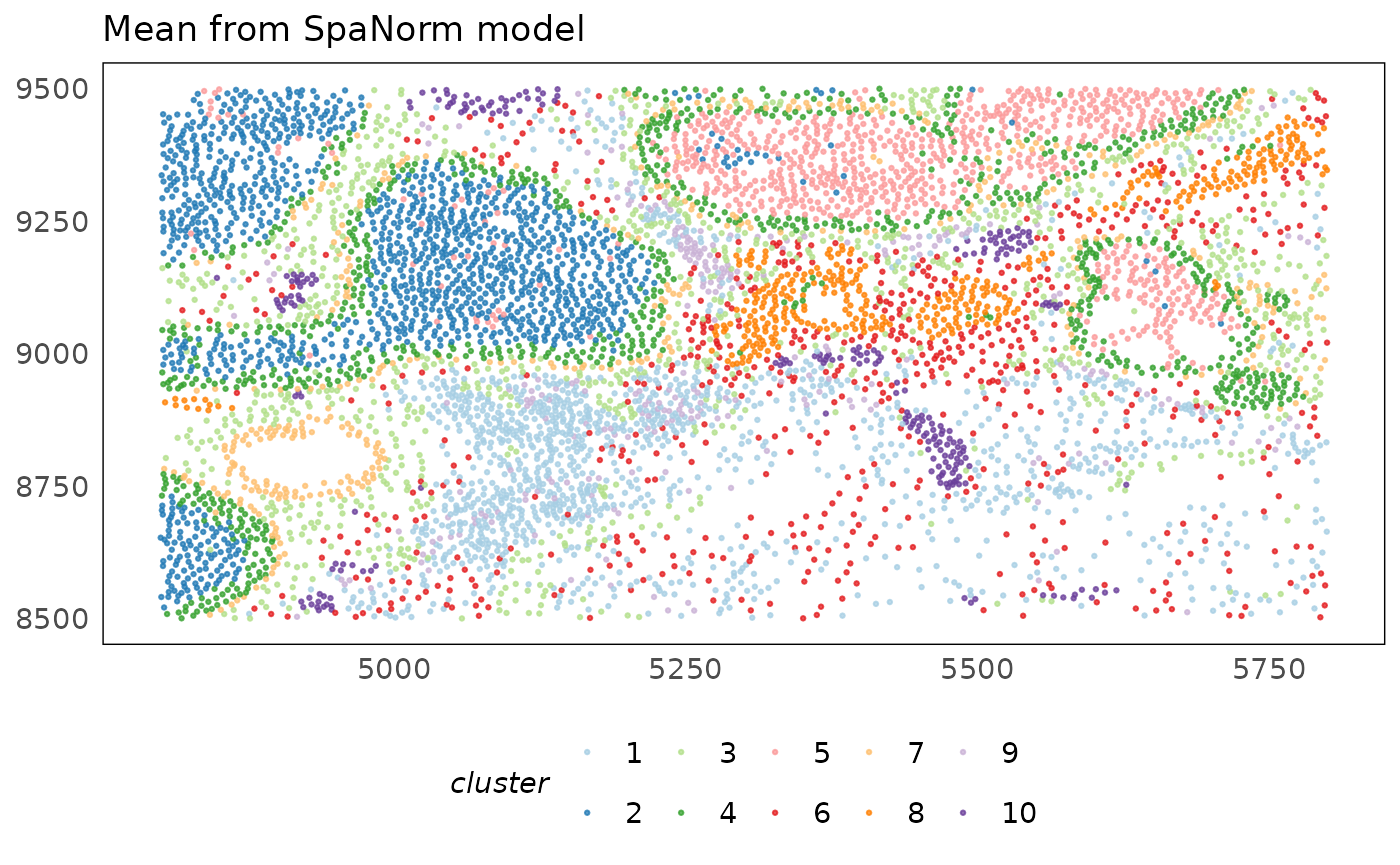
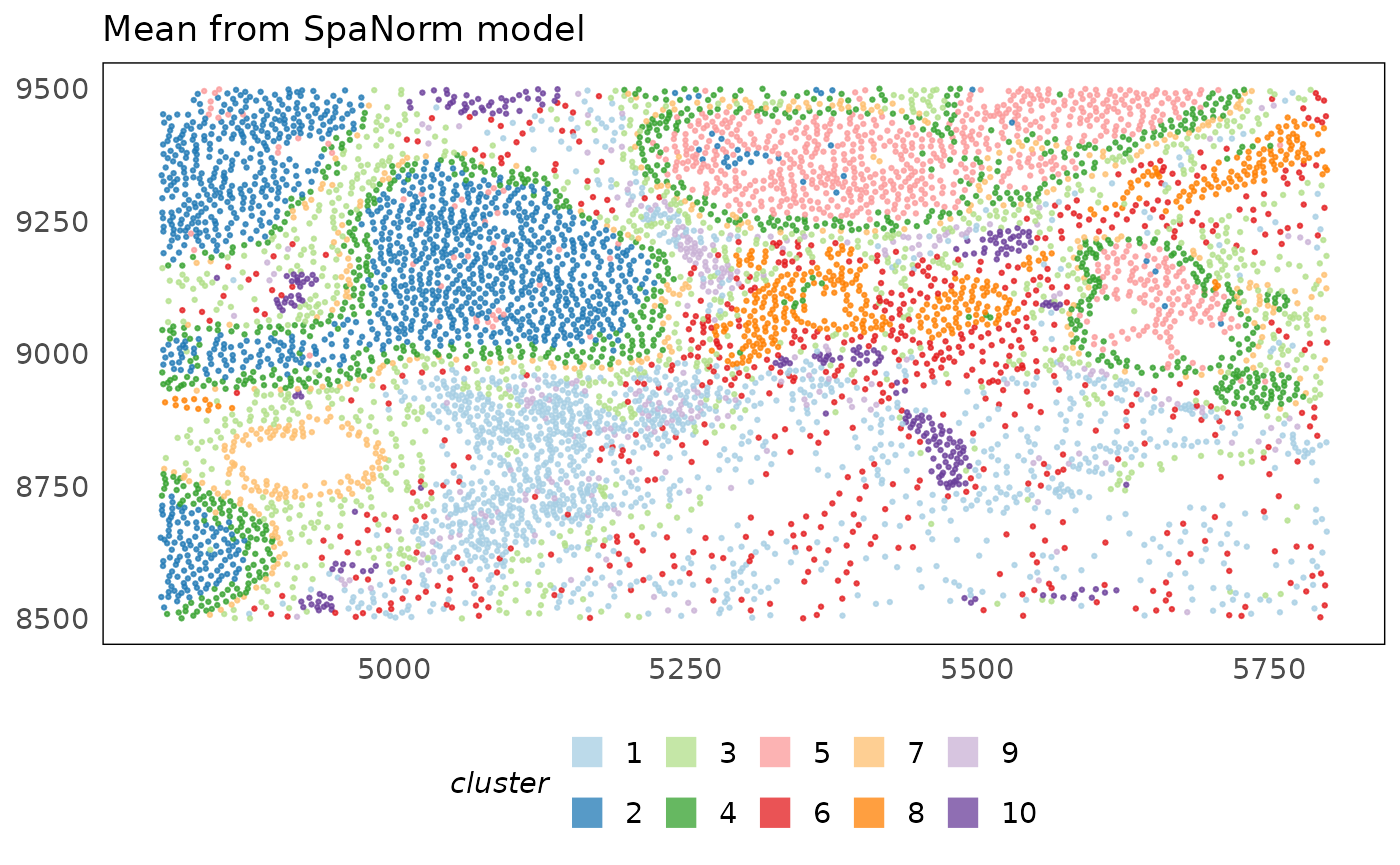
Deploying to gh-pages from @ bhuvad/XeniumSpatialAnalysisWorkshop@3654a9eabc05ea53ada9d24bad6e4f20900e12c9 🚀

diff --git a/articles/workflow_spatial_xenium.html b/articles/workflow_spatial_xenium.html
@@ -212,7 +212,9 @@ in the interval (8500, 9500)</p>
 <code class="sourceCode R"><span><span class="co"># set default point size to 0.5 for this report</span></span>
 <span><span class="fu">update_geom_defaults</span><span class="op">(</span>geom <span class="op">=</span> <span class="st">"point"</span>, new <span class="op">=</span> <span class="fu"><a href="https://rdrr.io/r/base/list.html" class="external-link">list</a></span><span class="op">(</span>size <span class="op">=</span> <span class="fl">0.5</span><span class="op">)</span><span class="op">)</span></span>
 <span><span class="fu">plotSpatial</span><span class="op">(</span><span class="va">idc</span>, colour <span class="op">=</span> <span class="va">region</span><span class="op">)</span> <span class="op">+</span></span>
-<span>  <span class="fu">scale_colour_brewer</span><span class="op">(</span>palette <span class="op">=</span> <span class="st">"Dark2"</span><span class="op">)</span></span></code></pre></div>
+<span>  <span class="fu">scale_colour_brewer</span><span class="op">(</span>palette <span class="op">=</span> <span class="st">"Dark2"</span><span class="op">)</span> <span class="op">+</span></span>
+<span>  <span class="co"># improve legend visibility</span></span>
+<span>  <span class="fu">guides</span><span class="op">(</span>colour <span class="op">=</span> <span class="fu">guide_legend</span><span class="op">(</span>override.aes <span class="op">=</span> <span class="fu"><a href="https://rdrr.io/r/base/list.html" class="external-link">list</a></span><span class="op">(</span>shape <span class="op">=</span> <span class="fl">15</span>, size <span class="op">=</span> <span class="fl">5</span><span class="op">)</span><span class="op">)</span><span class="op">)</span></span></code></pre></div>
 <p><img src="workflow_spatial_xenium_files/figure-html/unnamed-chunk-2-1.png" width="700"></p>
 <p>For users interested in analysing the whole dataset, it can be
 obtained using the code below.</p>
@@ -402,11 +404,13 @@ under- filtering.</p>
 <span><span class="va">p1</span> <span class="op">=</span> <span class="fu">plotDR</span><span class="op">(</span><span class="va">idc</span>, dimred <span class="op">=</span> <span class="st">"TSNE"</span>, colour <span class="op">=</span> <span class="va">keep</span>, alpha <span class="op">=</span> <span class="fl">0.75</span>, size <span class="op">=</span> <span class="fl">0.5</span><span class="op">)</span> <span class="op">+</span></span>
 <span>  <span class="fu">scale_color_brewer</span><span class="op">(</span>palette <span class="op">=</span> <span class="st">"Set1"</span><span class="op">)</span> <span class="op">+</span></span>
 <span>  <span class="fu">labs</span><span class="op">(</span>x <span class="op">=</span> <span class="st">"TSNE1"</span>, y <span class="op">=</span> <span class="st">"TSNE2"</span><span class="op">)</span> <span class="op">+</span></span>
-<span>  <span class="fu">theme</span><span class="op">(</span>legend.position <span class="op">=</span> <span class="st">"bottom"</span><span class="op">)</span></span>
+<span>  <span class="fu">theme</span><span class="op">(</span>legend.position <span class="op">=</span> <span class="st">"bottom"</span><span class="op">)</span> <span class="op">+</span></span>
+<span>  <span class="fu">guides</span><span class="op">(</span>colour <span class="op">=</span> <span class="fu">guide_legend</span><span class="op">(</span>override.aes <span class="op">=</span> <span class="fu"><a href="https://rdrr.io/r/base/list.html" class="external-link">list</a></span><span class="op">(</span>shape <span class="op">=</span> <span class="fl">15</span>, size <span class="op">=</span> <span class="fl">5</span><span class="op">)</span><span class="op">)</span><span class="op">)</span></span>
 <span><span class="co"># spatial plot</span></span>
 <span><span class="va">p2</span> <span class="op">=</span> <span class="fu">plotSpatial</span><span class="op">(</span><span class="va">idc</span>, colour <span class="op">=</span> <span class="va">keep</span>, alpha <span class="op">=</span> <span class="fl">0.75</span><span class="op">)</span> <span class="op">+</span></span>
 <span>  <span class="fu">scale_color_brewer</span><span class="op">(</span>palette <span class="op">=</span> <span class="st">"Set1"</span><span class="op">)</span> <span class="op">+</span></span>
-<span>  <span class="fu">theme</span><span class="op">(</span>legend.position <span class="op">=</span> <span class="st">"bottom"</span><span class="op">)</span></span>
+<span>  <span class="fu">theme</span><span class="op">(</span>legend.position <span class="op">=</span> <span class="st">"bottom"</span><span class="op">)</span> <span class="op">+</span></span>
+<span>  <span class="fu">guides</span><span class="op">(</span>colour <span class="op">=</span> <span class="fu">guide_legend</span><span class="op">(</span>override.aes <span class="op">=</span> <span class="fu"><a href="https://rdrr.io/r/base/list.html" class="external-link">list</a></span><span class="op">(</span>shape <span class="op">=</span> <span class="fl">15</span>, size <span class="op">=</span> <span class="fl">5</span><span class="op">)</span><span class="op">)</span><span class="op">)</span></span>
 <span><span class="va">p1</span> <span class="op">+</span> <span class="va">p2</span> <span class="op">+</span> <span class="fu">plot_annotation</span><span class="op">(</span>title <span class="op">=</span> <span class="st">"Cells retained after QC filtering"</span><span class="op">)</span></span></code></pre></div>
 <p><img src="workflow_spatial_xenium_files/figure-html/unnamed-chunk-12-1.png" width="700"></p>
 <p>In practice, after poor quality cells are filtered out, we tend to
@@ -564,7 +568,8 @@ for this workshop.</p>
 <code class="sourceCode R"><span><span class="fu">plotSpatial</span><span class="op">(</span><span class="va">idc</span>, colour <span class="op">=</span> <span class="va">cell_type</span>, alpha <span class="op">=</span> <span class="fl">0.75</span><span class="op">)</span> <span class="op">+</span></span>
 <span>  <span class="fu">scale_colour_brewer</span><span class="op">(</span>palette <span class="op">=</span> <span class="st">"Paired"</span>, na.value <span class="op">=</span> <span class="st">"#333333"</span><span class="op">)</span> <span class="op">+</span></span>
 <span>  <span class="fu">ggtitle</span><span class="op">(</span><span class="st">"Mean from SpaNorm model"</span><span class="op">)</span> <span class="op">+</span></span>
-<span>  <span class="fu">theme</span><span class="op">(</span>legend.position <span class="op">=</span> <span class="st">"bottom"</span><span class="op">)</span></span></code></pre></div>
+<span>  <span class="fu">theme</span><span class="op">(</span>legend.position <span class="op">=</span> <span class="st">"bottom"</span><span class="op">)</span> <span class="op">+</span></span>
+<span>  <span class="fu">guides</span><span class="op">(</span>colour <span class="op">=</span> <span class="fu">guide_legend</span><span class="op">(</span>override.aes <span class="op">=</span> <span class="fu"><a href="https://rdrr.io/r/base/list.html" class="external-link">list</a></span><span class="op">(</span>shape <span class="op">=</span> <span class="fl">15</span>, size <span class="op">=</span> <span class="fl">5</span><span class="op">)</span><span class="op">)</span><span class="op">)</span></span></code></pre></div>
 <p><img src="workflow_spatial_xenium_files/figure-html/unnamed-chunk-19-1.png" width="700"></p>
 </div>
 <div class="section level2">
@@ -633,17 +638,23 @@ variation is minimal within this range.</li>
 <span><span class="fu"><a href="https://rdrr.io/r/base/Random.html" class="external-link">set.seed</a></span><span class="op">(</span><span class="fl">1000</span><span class="op">)</span></span>
 <span><span class="va">idc</span> <span class="op">=</span> <span class="fu">Banksy</span><span class="fu">::</span><span class="fu"><a href="https://rdrr.io/pkg/Banksy/man/clusterBanksy.html" class="external-link">clusterBanksy</a></span><span class="op">(</span><span class="va">idc</span>, lambda <span class="op">=</span> <span class="va">lambda</span>, npcs <span class="op">=</span> <span class="va">npcs</span>, resolution <span class="op">=</span> <span class="va">res</span><span class="op">)</span></span>
 <span></span>
-<span><span class="fu">plotSpatial</span><span class="op">(</span><span class="va">idc</span>, colour <span class="op">=</span> <span class="va">clust_M0_lam0.2_k50_res0.8</span>, alpha <span class="op">=</span> <span class="fl">0.75</span><span class="op">)</span> <span class="op">+</span></span>
+<span><span class="co"># store to the column predicted_region</span></span>
+<span><span class="va">idc</span><span class="op">$</span><span class="va">predicted_region</span> <span class="op">=</span> <span class="va">idc</span><span class="op">$</span><span class="va">`clust_M0_lam0.2_k50_res0.8`</span></span>
+<span></span>
+<span><span class="fu">plotSpatial</span><span class="op">(</span><span class="va">idc</span>, colour <span class="op">=</span> <span class="va">predicted_region</span>, alpha <span class="op">=</span> <span class="fl">0.75</span><span class="op">)</span> <span class="op">+</span></span>
 <span>  <span class="fu">scale_colour_brewer</span><span class="op">(</span>palette <span class="op">=</span> <span class="st">"Paired"</span>, na.value <span class="op">=</span> <span class="st">"#333333"</span>, name <span class="op">=</span> <span class="st">"cluster"</span><span class="op">)</span> <span class="op">+</span></span>
 <span>  <span class="fu">ggtitle</span><span class="op">(</span><span class="st">"Mean from SpaNorm model"</span><span class="op">)</span> <span class="op">+</span></span>
-<span>  <span class="fu">theme</span><span class="op">(</span>legend.position <span class="op">=</span> <span class="st">"bottom"</span><span class="op">)</span></span></code></pre></div>
+<span>  <span class="fu">theme</span><span class="op">(</span>legend.position <span class="op">=</span> <span class="st">"bottom"</span><span class="op">)</span> <span class="op">+</span></span>
+<span>  <span class="fu">guides</span><span class="op">(</span>colour <span class="op">=</span> <span class="fu">guide_legend</span><span class="op">(</span>override.aes <span class="op">=</span> <span class="fu"><a href="https://rdrr.io/r/base/list.html" class="external-link">list</a></span><span class="op">(</span>shape <span class="op">=</span> <span class="fl">15</span>, size <span class="op">=</span> <span class="fl">5</span><span class="op">)</span><span class="op">)</span><span class="op">)</span></span></code></pre></div>
 <p><img src="workflow_spatial_xenium_files/figure-html/unnamed-chunk-20-1.png" width="700"></p>
 <p>Try varying the parameters to see how the clustering changes. Do note
 that the results are automatically stored in a new column in the
 colData. Unfortunately, the function does not allow specification of the
 new column name so the only approach is to look at the column names
 using <code>colnames(colData(idc))</code> and find the name of the new
-column (usually the last one) containing the clustering results.</p>
+column (usually the last one) containing the clustering results. We then
+store these to a column of our choosing to make it easier to reference
+it.</p>
 <p>Looking back at the original annotations, we see that clusters 3 and
 5 represent the DCIS and Invasive tumours respectively. Similarly,
 cluster 10 represents the blood vessel annotated by the pathologist.
@@ -654,26 +665,169 @@ of which may be visible in the histology image but are intestive to
 label manually. We also find cluster 4 which represents a boundary of
 cells surrounding invasive and DCIS lesions.</p>
 <div class="sourceCode" id="cb34"><pre class="downlit sourceCode r">
-<code class="sourceCode R"><span><span class="va">p1</span> <span class="op">=</span> <span class="fu">plotSpatial</span><span class="op">(</span><span class="va">idc</span>, colour <span class="op">=</span> <span class="va">clust_M0_lam0.2_k50_res0.8</span>, alpha <span class="op">=</span> <span class="fl">0.75</span><span class="op">)</span> <span class="op">+</span></span>
+<code class="sourceCode R"><span><span class="va">p1</span> <span class="op">=</span> <span class="fu">plotSpatial</span><span class="op">(</span><span class="va">idc</span>, colour <span class="op">=</span> <span class="va">predicted_region</span>, alpha <span class="op">=</span> <span class="fl">0.75</span><span class="op">)</span> <span class="op">+</span></span>
 <span>  <span class="fu">scale_colour_brewer</span><span class="op">(</span>palette <span class="op">=</span> <span class="st">"Paired"</span>, na.value <span class="op">=</span> <span class="st">"#333333"</span>, name <span class="op">=</span> <span class="st">"cluster"</span><span class="op">)</span> <span class="op">+</span></span>
 <span>  <span class="fu">ggtitle</span><span class="op">(</span><span class="st">"Mean from SpaNorm model"</span><span class="op">)</span> <span class="op">+</span></span>
-<span>  <span class="fu">guides</span><span class="op">(</span>colour <span class="op">=</span> <span class="fu">guide_legend</span><span class="op">(</span>nrow <span class="op">=</span> <span class="fl">3</span><span class="op">)</span><span class="op">)</span> <span class="op">+</span></span>
-<span>  <span class="fu">theme</span><span class="op">(</span>legend.position <span class="op">=</span> <span class="st">"bottom"</span><span class="op">)</span></span>
+<span>  <span class="fu">theme</span><span class="op">(</span>legend.position <span class="op">=</span> <span class="st">"bottom"</span><span class="op">)</span> <span class="op">+</span></span>
+<span>  <span class="fu">guides</span><span class="op">(</span>colour <span class="op">=</span> <span class="fu">guide_legend</span><span class="op">(</span>nrow <span class="op">=</span> <span class="fl">3</span>, override.aes <span class="op">=</span> <span class="fu"><a href="https://rdrr.io/r/base/list.html" class="external-link">list</a></span><span class="op">(</span>shape <span class="op">=</span> <span class="fl">15</span>, size <span class="op">=</span> <span class="fl">5</span><span class="op">)</span><span class="op">)</span><span class="op">)</span></span>
 <span><span class="va">p2</span> <span class="op">=</span> <span class="fu">plotSpatial</span><span class="op">(</span><span class="va">idc</span>, colour <span class="op">=</span> <span class="va">region</span><span class="op">)</span> <span class="op">+</span></span>
 <span>  <span class="fu">scale_colour_brewer</span><span class="op">(</span>palette <span class="op">=</span> <span class="st">"Dark2"</span><span class="op">)</span> <span class="op">+</span></span>
 <span>  <span class="fu">ggtitle</span><span class="op">(</span><span class="st">"Pathology annotations"</span><span class="op">)</span> <span class="op">+</span></span>
-<span>  <span class="fu">guides</span><span class="op">(</span>colour <span class="op">=</span> <span class="fu">guide_legend</span><span class="op">(</span>nrow <span class="op">=</span> <span class="fl">3</span><span class="op">)</span><span class="op">)</span></span>
+<span>  <span class="fu">guides</span><span class="op">(</span>colour <span class="op">=</span> <span class="fu">guide_legend</span><span class="op">(</span>nrow <span class="op">=</span> <span class="fl">3</span>, override.aes <span class="op">=</span> <span class="fu"><a href="https://rdrr.io/r/base/list.html" class="external-link">list</a></span><span class="op">(</span>shape <span class="op">=</span> <span class="fl">15</span>, size <span class="op">=</span> <span class="fl">5</span><span class="op">)</span><span class="op">)</span><span class="op">)</span></span>
 <span><span class="va">p1</span> <span class="op">+</span> <span class="va">p2</span> <span class="op">+</span> <span class="fu">plot_annotation</span><span class="op">(</span>title <span class="op">=</span> <span class="st">"Spatial domain identification"</span><span class="op">)</span></span></code></pre></div>
 <p><img src="workflow_spatial_xenium_files/figure-html/unnamed-chunk-21-1.png" width="700"></p>
 </div>
 <div class="section level2">
 <h2 id="differential-expression">Differential expression<a class="anchor" aria-label="anchor" href="#differential-expression"></a>
 </h2>
-<p>nicheDE?</p>
+<p>Cell type identification or clustering allows us to identify the
+different cellular states in a biological system. The power of spatial
+molecular datasets is that we can study how cellular states change in
+response to different structures in the tissue. For instance, in our
+tissue we see that there are two different types of cancer lesions,
+ductal carcinoma in situ and invasive. Cancer cells in the latter lesion
+tend to me aggresive and can spread more than those in the DCIS region.
+We would be interested in knowning the biological processes that make
+this happen.</p>
+<p>Additionally, cancer cells interact with their environment including
+cell types such as fibroblasts. We may be interested in identifying the
+differences in fibroblasts that are in close proximity to cancer cells
+as opposed to the distant ones. We can identify the genes that are
+associated with these changes below.</p>
+<div class="sourceCode" id="cb35"><pre class="downlit sourceCode r">
+<code class="sourceCode R"><span><span class="co"># create clusters to study how cell types vary across domains</span></span>
+<span><span class="va">clusters</span> <span class="op">=</span> <span class="fu"><a href="https://rdrr.io/pkg/BiocGenerics/man/paste.html" class="external-link">paste</a></span><span class="op">(</span><span class="va">idc</span><span class="op">$</span><span class="va">cell_type</span>, <span class="va">idc</span><span class="op">$</span><span class="va">predicted_region</span>, sep <span class="op">=</span> <span class="st">"_"</span><span class="op">)</span></span>
+<span><span class="va">clusters</span> <span class="op">|&gt;</span></span>
+<span>  <span class="fu"><a href="https://rdrr.io/pkg/BiocGenerics/man/table.html" class="external-link">table</a></span><span class="op">(</span><span class="op">)</span> <span class="op">|&gt;</span></span>
+<span>  <span class="fu"><a href="https://rdrr.io/pkg/BiocGenerics/man/sort.html" class="external-link">sort</a></span><span class="op">(</span><span class="op">)</span> <span class="op">|&gt;</span> </span>
+<span>  <span class="fu"><a href="https://rdrr.io/r/utils/head.html" class="external-link">tail</a></span><span class="op">(</span><span class="fl">10</span><span class="op">)</span></span></code></pre></div>
+<pre><code><span><span class="co">## clusters</span></span>
+<span><span class="co">## Fibroblast_1  Malignant_8     T_cell_1 Epithelial_7 Fibroblast_3 Macrophage_1 </span></span>
+<span><span class="co">##          304          322          341          351          353          374 </span></span>
+<span><span class="co">## Fibroblast_6  Malignant_4  Malignant_5  Malignant_2 </span></span>
+<span><span class="co">##          644          700          765         1271</span></span></code></pre>
+<p>We see that the two largest clusters capture malignant cells in
+spatial domains 2 and 5 which align with the invasive and DCIS regions
+respectively based on the pathology annotations. We also see that though
+most of the fibroblasts are dispersed in the stroma (region 6), those
+that are closer to the cancer lesions are clustered in region 3. We
+would be interested in studying the difference between these and
+understanding whether they contain features that promote the tumour.</p>
+<blockquote>
+<p>The analysis below is only meant to be a demonstration of the
+potential of spatial transcriptomics data. A proper statistical analysis
+would require replicate tissue samples from across different patients.
+In such a case, we would aggregate transcript counts across cell types
+using the <code><a href="https://rdrr.io/pkg/scuttle/man/sumCountsAcrossCells.html" class="external-link">scater::sumCountsAcrossCells</a></code> to create
+pseudo-bulk samples, and follow up with a differential expression
+analysis using the <a href="https://doi.org/10.12688/f1000research.8987.2" class="external-link"><code>edgeR</code></a>
+or <a href="https://doi.org/10.12688/f1000research.9005.3" class="external-link"><code>limma</code></a>
+pipelines. Alternatively, a more advanced tool such as <a href="https://doi.org/10.1186/s13059-023-03159-6" class="external-link"><code>nicheDE</code></a>
+could be used to perform analysis on a single tissue, however, it would
+also be more robust with biological replicates. This tool is outside the
+scope of this introductory workshop therefore is not covered.</p>
+</blockquote>
+<div class="sourceCode" id="cb37"><pre class="downlit sourceCode r">
+<code class="sourceCode R"><span><span class="kw"><a href="https://rdrr.io/r/base/library.html" class="external-link">library</a></span><span class="op">(</span><span class="va"><a href="https://github.com/MarioniLab/scran/" class="external-link">scran</a></span><span class="op">)</span></span>
+<span></span>
+<span><span class="co"># identify markers</span></span>
+<span><span class="va">marker.info</span> <span class="op">=</span> <span class="fu"><a href="https://rdrr.io/pkg/scran/man/scoreMarkers.html" class="external-link">scoreMarkers</a></span><span class="op">(</span><span class="va">idc</span>, <span class="va">clusters</span>, pairings <span class="op">=</span> <span class="fu"><a href="https://rdrr.io/r/base/list.html" class="external-link">list</a></span><span class="op">(</span><span class="fu"><a href="https://rdrr.io/r/base/c.html" class="external-link">c</a></span><span class="op">(</span><span class="st">"Malignant_2"</span>, <span class="st">"Fibroblast_3"</span><span class="op">)</span>, <span class="fu"><a href="https://rdrr.io/r/base/c.html" class="external-link">c</a></span><span class="op">(</span><span class="st">"Malignant_5"</span>, <span class="st">"Fibroblast_6"</span><span class="op">)</span><span class="op">)</span><span class="op">)</span></span>
+<span><span class="va">marker.info</span></span></code></pre></div>
+<pre><code><span><span class="co">## List of length 2</span></span>
+<span><span class="co">## names(2): Fibroblast_3 Malignant_2</span></span></code></pre>
+<p>Below we compare the malignant (cancer) cells from region 2
+(invasive) against those from region 5 (DCIS). Investigating and
+visialising the top genes shows that <a href="https://www.genecards.org/cgi-bin/carddisp.pl?gene=DHRS" class="external-link">DHRS</a>
+and <a href="https://www.genecards.org/cgi-bin/carddisp.pl?gene=MUC6" class="external-link">MUC6</a>
+are up-regulated in invasive cancer cells while <a href="https://www.genecards.org/cgi-bin/carddisp.pl?gene=GATA3" class="external-link">GATA3</a>
+and <a href="https://www.genecards.org/cgi-bin/carddisp.pl?gene=FLNB" class="external-link">FLNB</a>
+are moderately up-regulated in DCIS cancer cells.</p>
+<div class="sourceCode" id="cb39"><pre class="downlit sourceCode r">
+<code class="sourceCode R"><span><span class="kw"><a href="https://rdrr.io/r/base/library.html" class="external-link">library</a></span><span class="op">(</span><span class="va"><a href="http://bioconductor.org/packages/scater/" class="external-link">scater</a></span><span class="op">)</span></span>
+<span></span>
+<span><span class="co"># study markers of Malignant_2</span></span>
+<span><span class="va">chosen_malignant</span> <span class="op">&lt;-</span> <span class="va">marker.info</span><span class="op">[[</span><span class="st">"Malignant_2"</span><span class="op">]</span><span class="op">]</span></span>
+<span><span class="va">ordered_malignant</span> <span class="op">&lt;-</span> <span class="va">chosen_malignant</span><span class="op">[</span><span class="fu"><a href="https://rdrr.io/pkg/BiocGenerics/man/order.html" class="external-link">order</a></span><span class="op">(</span><span class="va">chosen_malignant</span><span class="op">$</span><span class="va">rank.AUC</span><span class="op">)</span>, <span class="op">]</span></span>
+<span><span class="fu"><a href="https://rdrr.io/r/utils/head.html" class="external-link">head</a></span><span class="op">(</span><span class="va">ordered_malignant</span><span class="op">[</span>, <span class="fl">1</span><span class="op">:</span><span class="fl">4</span><span class="op">]</span><span class="op">)</span></span></code></pre></div>
+<pre><code><span><span class="co">## DataFrame with 6 rows and 4 columns</span></span>
+<span><span class="co">##          self.average other.average self.detected other.detected</span></span>
+<span><span class="co">##             &lt;numeric&gt;     &lt;numeric&gt;     &lt;numeric&gt;      &lt;numeric&gt;</span></span>
+<span><span class="co">## DHRS2         2.80594      0.539140      0.969315       0.309440</span></span>
+<span><span class="co">## GATA3         3.72242      2.114915      0.999213       0.682453</span></span>
+<span><span class="co">## FLNB          3.27476      1.964350      0.995279       0.686458</span></span>
+<span><span class="co">## SERHL2        1.13927      0.238138      0.629426       0.183949</span></span>
+<span><span class="co">## MUC6          1.04731      0.189133      0.572777       0.141997</span></span>
+<span><span class="co">## ANKRD30A      3.60635      1.968429      0.988985       0.635830</span></span></code></pre>
+<div class="sourceCode" id="cb41"><pre class="downlit sourceCode r">
+<code class="sourceCode R"><span><span class="fu"><a href="https://rdrr.io/pkg/scater/man/plotExpression.html" class="external-link">plotExpression</a></span><span class="op">(</span><span class="va">idc</span>,</span>
+<span>  features <span class="op">=</span> <span class="fu"><a href="https://rdrr.io/r/utils/head.html" class="external-link">head</a></span><span class="op">(</span><span class="fu"><a href="https://rdrr.io/pkg/BiocGenerics/man/row_colnames.html" class="external-link">rownames</a></span><span class="op">(</span><span class="va">ordered_malignant</span><span class="op">)</span>, <span class="fl">9</span><span class="op">)</span>,</span>
+<span>  x <span class="op">=</span> <span class="st">"predicted_region"</span>,</span>
+<span>  colour_by <span class="op">=</span> <span class="st">"predicted_region"</span>,</span>
+<span>  ncol <span class="op">=</span> <span class="fl">3</span></span>
+<span><span class="op">)</span> <span class="op">+</span></span>
+<span>  <span class="fu"><a href="https://ggplot2.tidyverse.org/reference/geom_abline.html" class="external-link">geom_vline</a></span><span class="op">(</span>xintercept <span class="op">=</span> <span class="fu"><a href="https://rdrr.io/r/base/c.html" class="external-link">c</a></span><span class="op">(</span><span class="fl">2</span>, <span class="fl">5</span><span class="op">)</span>, lwd <span class="op">=</span> <span class="fl">0.1</span>, lty <span class="op">=</span> <span class="fl">2</span><span class="op">)</span> <span class="op">+</span></span>
+<span>  <span class="fu"><a href="https://ggplot2.tidyverse.org/reference/scale_brewer.html" class="external-link">scale_colour_brewer</a></span><span class="op">(</span>palette <span class="op">=</span> <span class="st">"Paired"</span>, na.value <span class="op">=</span> <span class="st">"#333333"</span>, name <span class="op">=</span> <span class="st">"cluster"</span><span class="op">)</span> <span class="op">+</span></span>
+<span>  <span class="fu"><a href="https://ggplot2.tidyverse.org/reference/theme.html" class="external-link">theme</a></span><span class="op">(</span>legend.position <span class="op">=</span> <span class="st">"bottom"</span><span class="op">)</span> <span class="op">+</span></span>
+<span>  <span class="fu"><a href="https://ggplot2.tidyverse.org/reference/guides.html" class="external-link">guides</a></span><span class="op">(</span>colour <span class="op">=</span> <span class="fu"><a href="https://ggplot2.tidyverse.org/reference/guide_legend.html" class="external-link">guide_legend</a></span><span class="op">(</span>override.aes <span class="op">=</span> <span class="fu"><a href="https://rdrr.io/r/base/list.html" class="external-link">list</a></span><span class="op">(</span>shape <span class="op">=</span> <span class="fl">15</span>, size <span class="op">=</span> <span class="fl">5</span><span class="op">)</span><span class="op">)</span><span class="op">)</span></span></code></pre></div>
+<p><img src="workflow_spatial_xenium_files/figure-html/unnamed-chunk-24-1.png" width="768"></p>
+<p>Next we compare the fibroblasts from region 6 (stroma) against those
+from region 3 (tumour-adjacent). Investigating and visialising the top
+genes shows that <a href="https://www.genecards.org/cgi-bin/carddisp.pl?gene=LUM" class="external-link">LUM</a>
+and <a href="https://www.genecards.org/cgi-bin/carddisp.pl?gene=POSTN" class="external-link">POSTN</a>
+are up-regulated in stromal fibroblasts while <a href="https://www.genecards.org/cgi-bin/carddisp.pl?gene=MMP11" class="external-link">MMP11</a>
+and <a href="https://www.genecards.org/cgi-bin/carddisp.pl?gene=AQP1" class="external-link">AQP1</a>
+are up-regulated in the tumour-adjacent fibroblasts.</p>
+<div class="sourceCode" id="cb42"><pre class="downlit sourceCode r">
+<code class="sourceCode R"><span><span class="co"># study markers of Malignant_2</span></span>
+<span><span class="va">chosen_fibroblasts</span> <span class="op">&lt;-</span> <span class="va">marker.info</span><span class="op">[[</span><span class="st">"Fibroblast_3"</span><span class="op">]</span><span class="op">]</span></span>
+<span><span class="va">ordered_fibroblasts</span> <span class="op">&lt;-</span> <span class="va">chosen_fibroblasts</span><span class="op">[</span><span class="fu"><a href="https://rdrr.io/pkg/BiocGenerics/man/order.html" class="external-link">order</a></span><span class="op">(</span><span class="va">chosen_fibroblasts</span><span class="op">$</span><span class="va">rank.AUC</span><span class="op">)</span>, <span class="op">]</span></span>
+<span><span class="fu"><a href="https://rdrr.io/r/utils/head.html" class="external-link">head</a></span><span class="op">(</span><span class="va">ordered_fibroblasts</span><span class="op">[</span>, <span class="fl">1</span><span class="op">:</span><span class="fl">4</span><span class="op">]</span><span class="op">)</span></span></code></pre></div>
+<pre><code><span><span class="co">## DataFrame with 6 rows and 4 columns</span></span>
+<span><span class="co">##       self.average other.average self.detected other.detected</span></span>
+<span><span class="co">##          &lt;numeric&gt;     &lt;numeric&gt;     &lt;numeric&gt;      &lt;numeric&gt;</span></span>
+<span><span class="co">## LUM       2.656393      1.972683      0.966006      0.5326797</span></span>
+<span><span class="co">## RGS5      0.548869      0.104068      0.294618      0.0797112</span></span>
+<span><span class="co">## MMP11     0.807756      0.167781      0.385269      0.1211576</span></span>
+<span><span class="co">## POSTN     2.296114      1.318836      0.872521      0.4802572</span></span>
+<span><span class="co">## AEBP1     1.634483      1.231478      0.824363      0.4990967</span></span>
+<span><span class="co">## AQP1      0.673749      0.233876      0.410765      0.1800684</span></span></code></pre>
+<div class="sourceCode" id="cb44"><pre class="downlit sourceCode r">
+<code class="sourceCode R"><span><span class="fu"><a href="https://rdrr.io/pkg/scater/man/plotExpression.html" class="external-link">plotExpression</a></span><span class="op">(</span><span class="va">idc</span>,</span>
+<span>  features <span class="op">=</span> <span class="fu"><a href="https://rdrr.io/r/utils/head.html" class="external-link">head</a></span><span class="op">(</span><span class="fu"><a href="https://rdrr.io/pkg/BiocGenerics/man/row_colnames.html" class="external-link">rownames</a></span><span class="op">(</span><span class="va">ordered_fibroblasts</span><span class="op">)</span>, <span class="fl">9</span><span class="op">)</span>,</span>
+<span>  x <span class="op">=</span> <span class="st">"predicted_region"</span>,</span>
+<span>  colour_by <span class="op">=</span> <span class="st">"predicted_region"</span>,</span>
+<span>  ncol <span class="op">=</span> <span class="fl">3</span></span>
+<span><span class="op">)</span> <span class="op">+</span></span>
+<span>  <span class="fu"><a href="https://ggplot2.tidyverse.org/reference/geom_abline.html" class="external-link">geom_vline</a></span><span class="op">(</span>xintercept <span class="op">=</span> <span class="fu"><a href="https://rdrr.io/r/base/c.html" class="external-link">c</a></span><span class="op">(</span><span class="fl">3</span>, <span class="fl">6</span><span class="op">)</span>, lwd <span class="op">=</span> <span class="fl">0.1</span>, lty <span class="op">=</span> <span class="fl">2</span><span class="op">)</span> <span class="op">+</span></span>
+<span>  <span class="fu"><a href="https://ggplot2.tidyverse.org/reference/scale_brewer.html" class="external-link">scale_colour_brewer</a></span><span class="op">(</span>palette <span class="op">=</span> <span class="st">"Paired"</span>, na.value <span class="op">=</span> <span class="st">"#333333"</span>, name <span class="op">=</span> <span class="st">"cluster"</span><span class="op">)</span> <span class="op">+</span></span>
+<span>  <span class="fu"><a href="https://ggplot2.tidyverse.org/reference/theme.html" class="external-link">theme</a></span><span class="op">(</span>legend.position <span class="op">=</span> <span class="st">"bottom"</span><span class="op">)</span> <span class="op">+</span></span>
+<span>  <span class="fu"><a href="https://ggplot2.tidyverse.org/reference/guides.html" class="external-link">guides</a></span><span class="op">(</span>colour <span class="op">=</span> <span class="fu"><a href="https://ggplot2.tidyverse.org/reference/guide_legend.html" class="external-link">guide_legend</a></span><span class="op">(</span>override.aes <span class="op">=</span> <span class="fu"><a href="https://rdrr.io/r/base/list.html" class="external-link">list</a></span><span class="op">(</span>shape <span class="op">=</span> <span class="fl">15</span>, size <span class="op">=</span> <span class="fl">5</span><span class="op">)</span><span class="op">)</span><span class="op">)</span></span></code></pre></div>
+<p><img src="workflow_spatial_xenium_files/figure-html/unnamed-chunk-25-1.png" width="768"></p>
 </div>
 <div class="section level2">
 <h2 id="functional-analysis">Functional analysis<a class="anchor" aria-label="anchor" href="#functional-analysis"></a>
 </h2>
+<p>The example dataset used here was generated using the 10x Xenium
+platform that measured 380 genes. More recent versions of this platform
+and competing platforms such as the NanoString CosMx are now providing
+around 5000 genes (soon whole transcriptome as well!). It is relatively
+easy to scan through the strongest differentially expressed genes from a
+list of at most 380 genes to understand the processes underpinning the
+system. With larger panel sizes, we need computational tools to perform
+such analyses, often referred to as gene-set enrichment analysis or
+functional analysis. As this is an extensive topic, it is not covered in
+depth in this workshop, however, we have previously developed a <a href="https://davislaboratory.github.io/GenesetAnalysisWorkflow/" class="external-link">workshop
+on gene-set enrichment analysis</a> and refer the attendees to that if
+they are interested. A non-programmatic interface of some of the tools
+in our workshop can be accessed through <a href="https://visse.cloud/" class="external-link">vissE.cloud</a>.</p>
+<blockquote>
+<p>Optional: You can also explore the full dataset from this workshop on
+vissE.cloud through the following <a href="https://visse.cloud/galleryexample/xenium_V1FFPEHumanBreastIDCWithAddon_PCA" class="external-link">link</a>.
+This exploratory analysis performs principal components analysis (PCA)
+or non-negative matrix factorisation (NMF) on the dataset to identify
+macroscopic biological programs. It then performs gene-set enrichment
+analysis on the factor loadings to explain the biological processes.</p>
+</blockquote>
 </div>
 <div class="section level2">
 <h2 id="summary">Summary<a class="anchor" aria-label="anchor" href="#summary"></a>
@@ -686,7 +840,7 @@ cells surrounding invasive and DCIS lesions.</p>
 Bioconductor project, running on R version 4.4.2 (2024-10-31) or higher.
 The complete list of the packages used for this workflow are shown
 below:</p>
-<div class="sourceCode" id="cb35"><pre class="downlit sourceCode r">
+<div class="sourceCode" id="cb45"><pre class="downlit sourceCode r">
 <code class="sourceCode R"><span><span class="fu"><a href="https://rdrr.io/r/utils/sessionInfo.html" class="external-link">sessionInfo</a></span><span class="op">(</span><span class="op">)</span></span></code></pre></div>
 <pre><code><span><span class="co">## R version 4.4.2 (2024-10-31)</span></span>
 <span><span class="co">## Platform: x86_64-pc-linux-gnu</span></span>
